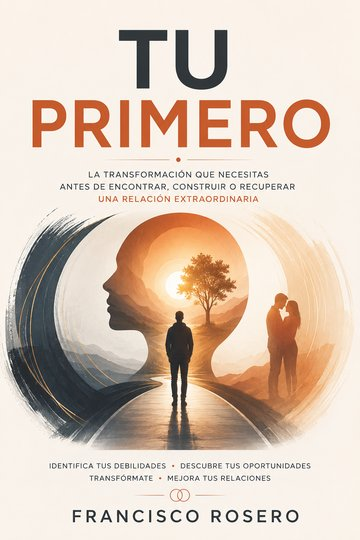
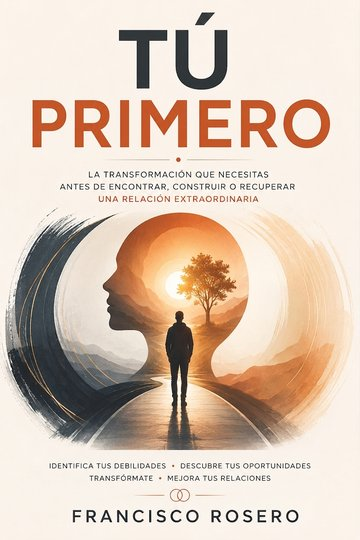
Actualiza portadas del libro Tu Primero/You First e ilustracion
Nueva ilustracion de portada (ES/EN) y correccion de acento en "TU"
del titulo, en el PDF y en el texto que menciona el libro.

Claude-Session: https://claude.ai/code/session_01PUVyBTHhoZPzU5UrYHLr7V

diff --git a/public/js/app.js b/public/js/app.js
@@ -40,7 +40,7 @@
       extendedIntro: "El Informe Extendido incluye tus 8 dimensiones completas, recomendaciones concretas, 5 secciones escritas especialmente para ti por IA, y tu plan de acción a 3 semanas.",
       freeSessionNote: "Además, al adquirir tu Informe Extendido recibes una sesión de mentoría indagatoria gratuita de 60 minutos con el Dr. Francisco Rosero para revisarlo juntos.",
       bookTeaserLabel: "Además, recibes",
-      bookTeaserCopy: 'Tu Informe Extendido es solo el primer paso. El siguiente es tu <strong>sesión de mentoría indagatoria gratuita de 60 minutos</strong> con uno de los mentores de nuestro equipo — y ahí, exclusivamente ahí, recibirás <strong>"Tu Primero"</strong>: <strong>el libro digital gratuito</strong> diseñado para profundizar en tus 8 pilares y acompañarte semanas después de esa conversación. No está a la venta ni disponible por ningún otro medio: es una guía reservada para quienes completan el proceso, informe y sesión de mentoría.',
+      bookTeaserCopy: 'Tu Informe Extendido es solo el primer paso. El siguiente es tu <strong>sesión de mentoría indagatoria gratuita de 60 minutos</strong> con uno de los mentores de nuestro equipo — y ahí, exclusivamente ahí, recibirás <strong>"Tú Primero"</strong>: <strong>el libro digital gratuito</strong> diseñado para profundizar en tus 8 pilares y acompañarte semanas después de esa conversación. No está a la venta ni disponible por ningún otro medio: es una guía reservada para quienes completan el proceso, informe y sesión de mentoría.',
       scheduleSessionTitle: "Tu sesión de mentoría gratuita",
       scheduleSessionIntro: "Como parte de tu Informe Extendido, tienes una sesión de mentoría indagatoria gratuita de 60 minutos con el Dr. Francisco Rosero, Mentor en Relaciones y Desarrollo Personal, para revisar tus resultados.",
       scheduleSessionBtn: "Agendar mi sesión gratuita",

diff --git a/services/pdfGenerator.js b/services/pdfGenerator.js
@@ -49,7 +49,7 @@ const BOOK_TEASER = {
       { text: "Tu Informe Extendido es solo el primer paso. El siguiente es tu ", bold: false },
       { text: "sesión de mentoría indagatoria gratuita de 60 minutos", bold: true },
       { text: " con uno de los mentores de nuestro equipo — y ahí, exclusivamente ahí, recibirás ", bold: false },
-      { text: '"Tu Primero"', bold: true, accent: true },
+      { text: '"Tú Primero"', bold: true, accent: true },
       { text: ": ", bold: false },
       { text: "el libro digital gratuito", bold: true },
       {
